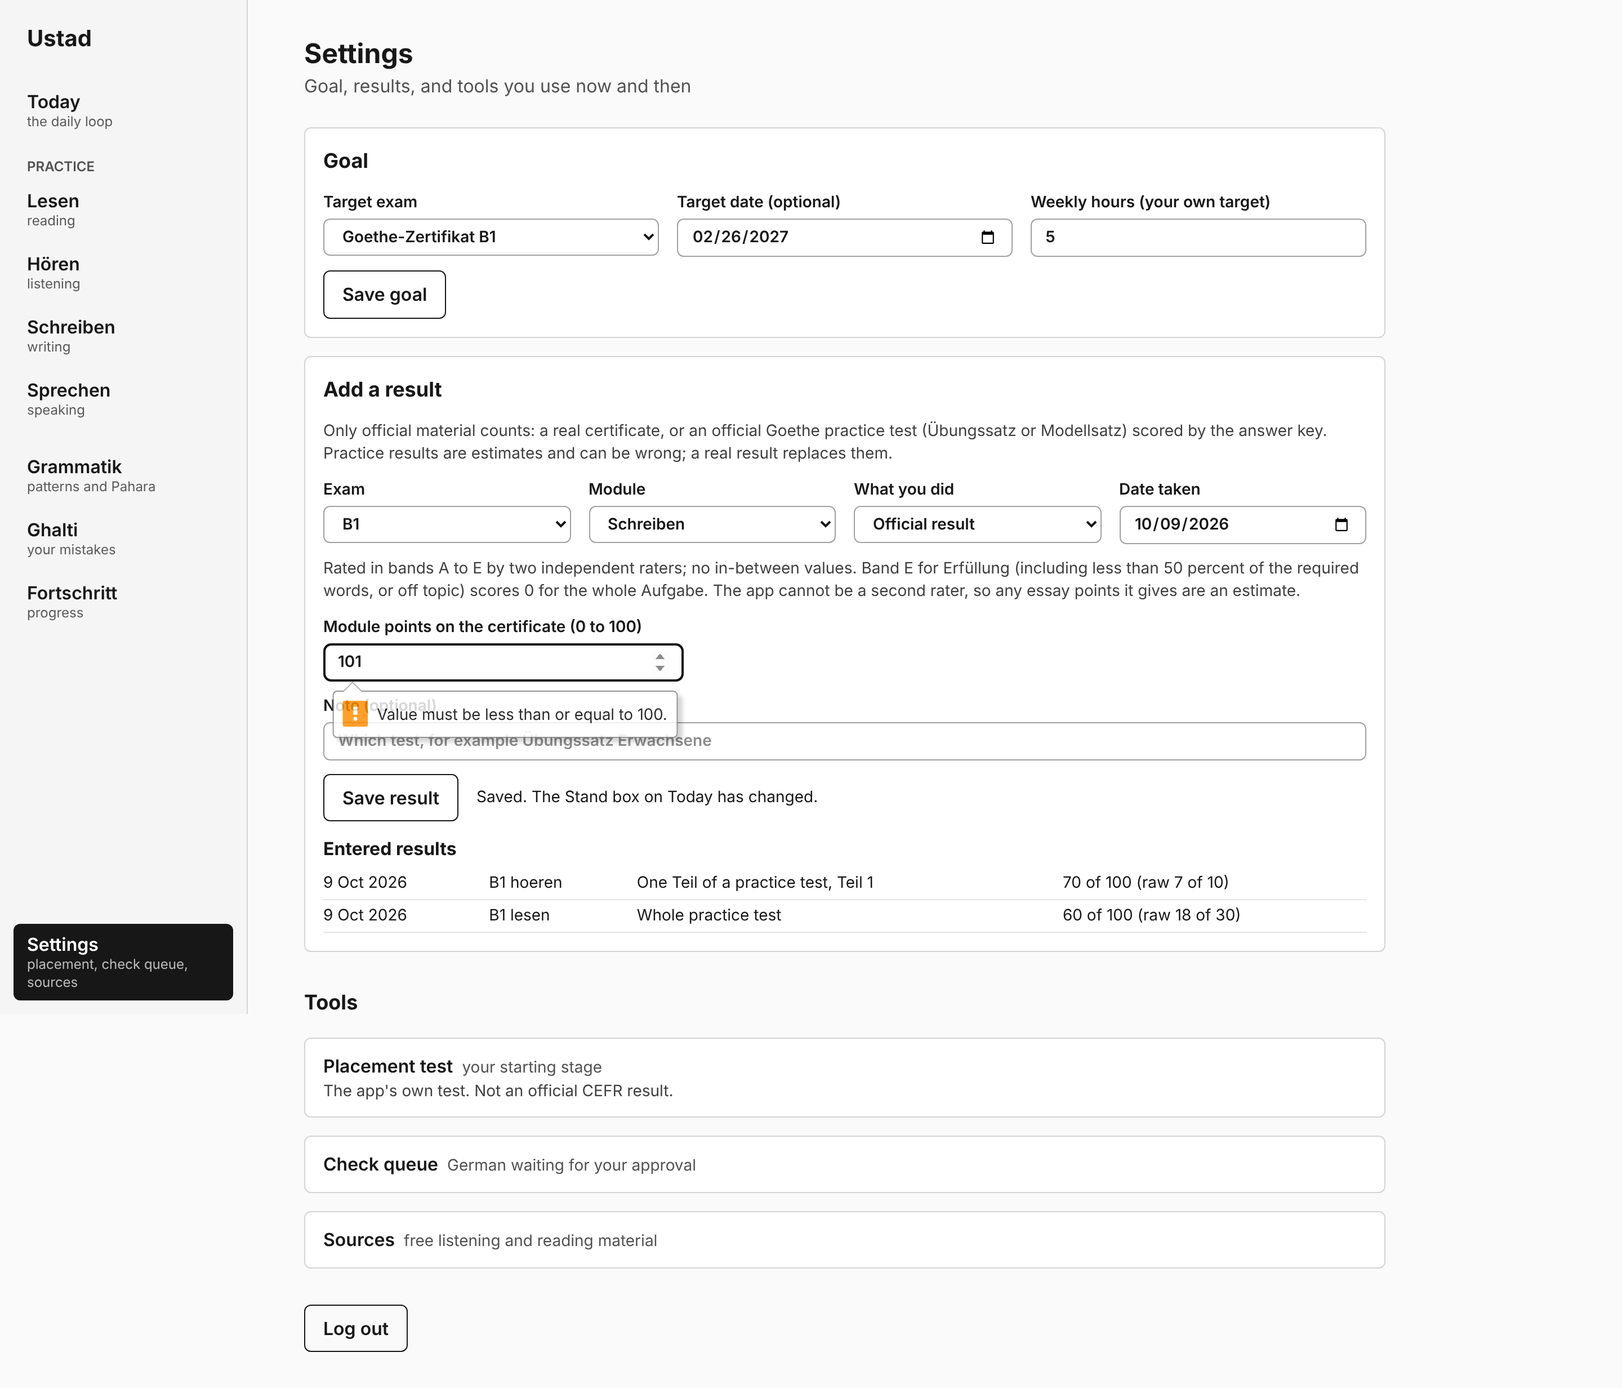
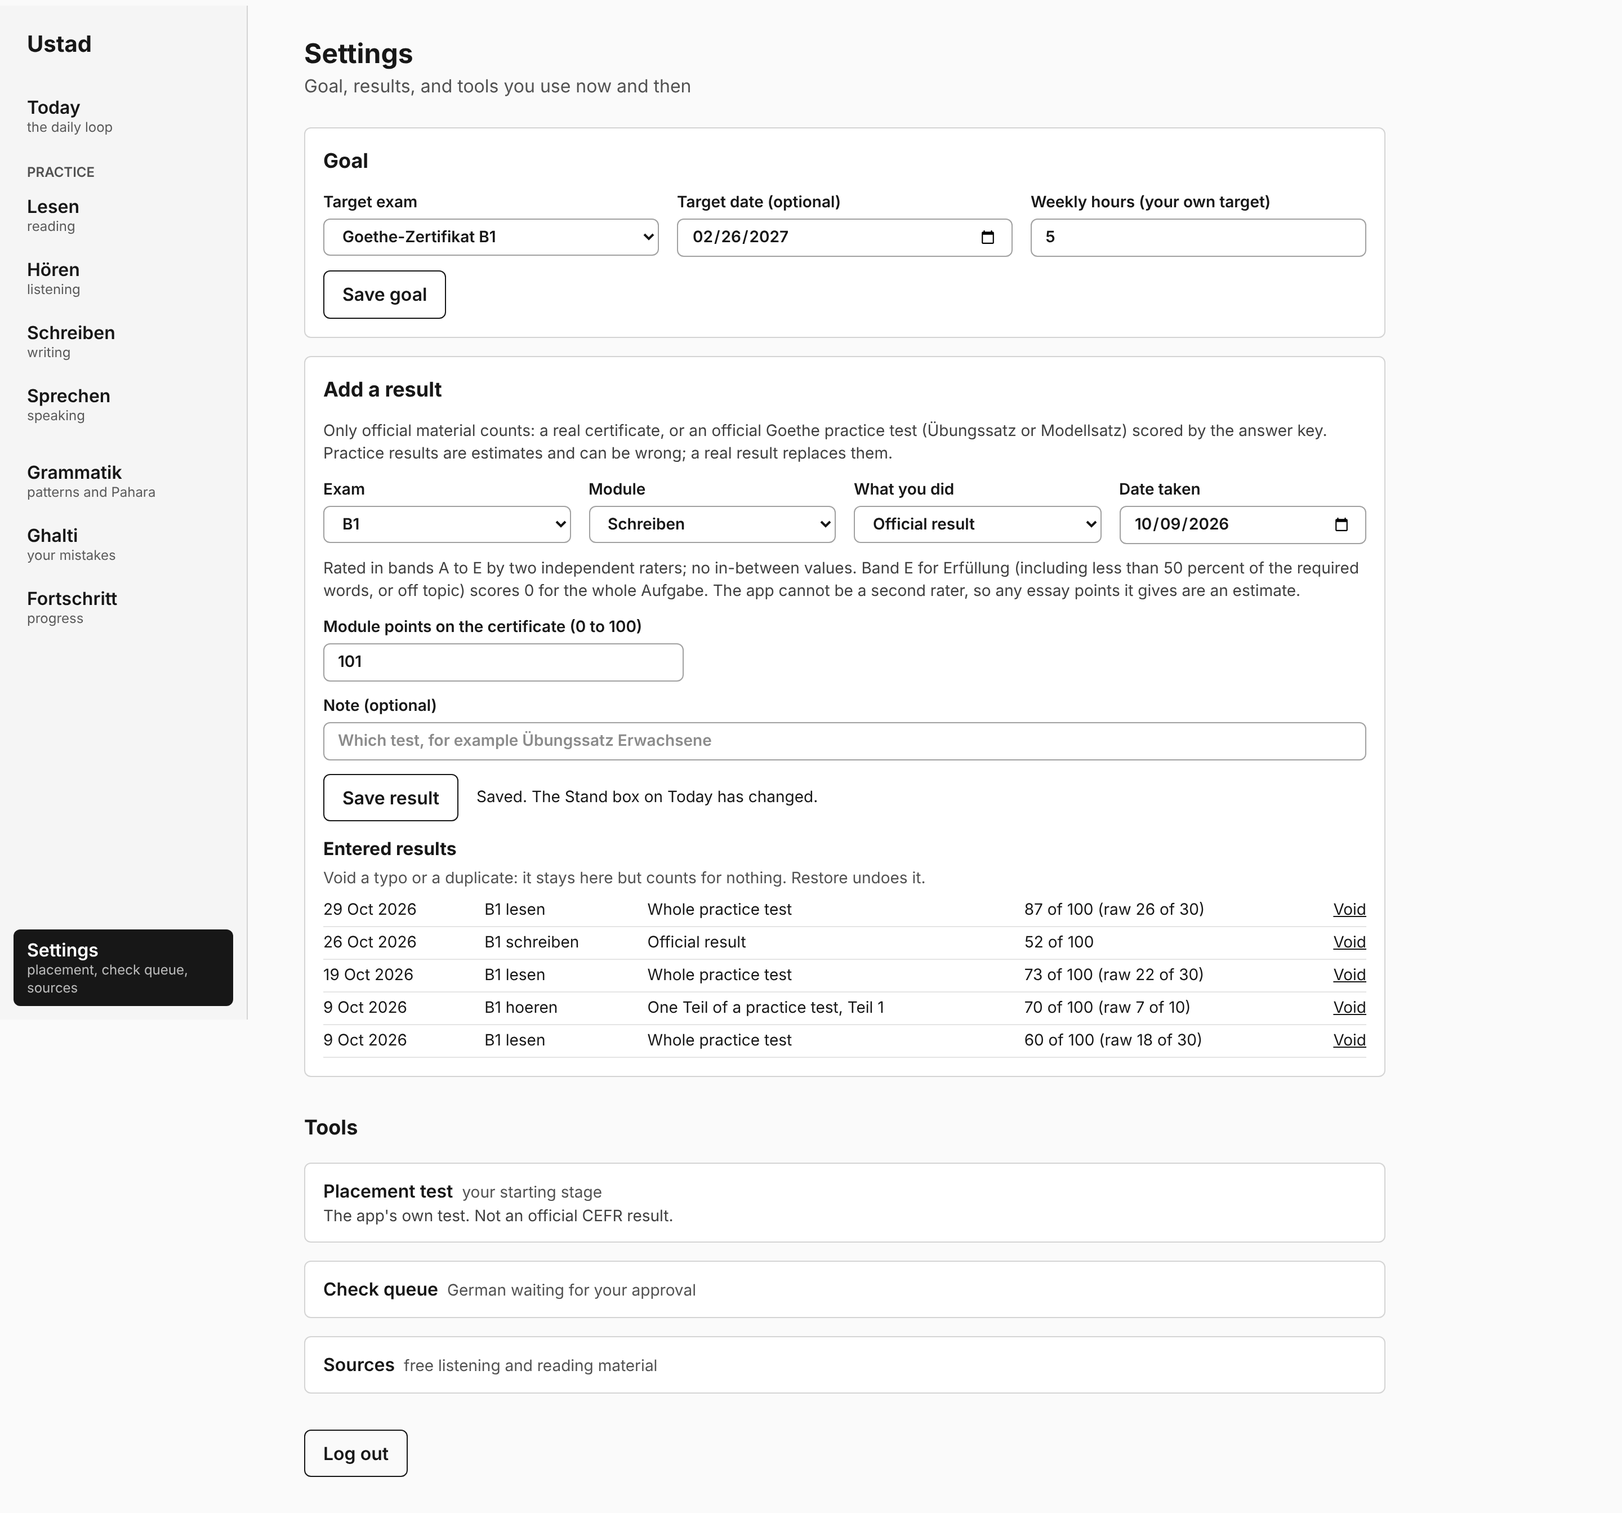
V2 follow-up: soft delete for exam results, word list extractor
Claude-Session: https://claude.ai/code/session_011v4v1GzHf5XmuZF3co3fEE

diff --git a/frontend/src/pages/Settings.tsx b/frontend/src/pages/Settings.tsx
@@ -7,7 +7,7 @@ import { formatDate, KIND_LABEL, type ModuleKey, type Standing } from '../lib/st
 
 interface Teil { n: number; label?: string; items?: number; max: number }
 type Format = Record<'B1' | 'B2', { exam: string; pass_points: number; modules: Record<ModuleKey, { label: string; teile: Teil[]; scoring: string; verified: boolean; verify_note?: string }> }>
-interface ResultRow { id: number; taken: string; level: string; module: string; kind: string; teil: number | null; raw: number | null; raw_max: number | null; points: number; points_max: number }
+interface ResultRow { id: number; taken: string; level: string; module: string; kind: string; teil: number | null; raw: number | null; raw_max: number | null; points: number; points_max: number; voided: boolean }
 
 const field = 'rounded-lg border border-neutral-400 bg-white px-3 py-1.5'
 const label = 'flex flex-col gap-1 text-sm font-semibold'
@@ -94,6 +94,10 @@ function AddResult({ preset }: { preset: ModuleKey | null }) {
     },
     onError: (e: Error) => setMsg(e.message),
   })
+  const toggle = useMutation({
+    mutationFn: (r: ResultRow) => api(`/api/exam-results/${r.id}/void`, { voided: !r.voided }),
+    onSuccess: () => qc.invalidateQueries(),
+  })
   const complete = kind === 'real_exam' ? points !== '' : kind === 'practice_teil' ? raw !== '' : !!mod && mod.teile.every((t) => teile[t.n] !== undefined && teile[t.n] !== '')
   return (
     <form
@@ -167,14 +171,21 @@ function AddResult({ preset }: { preset: ModuleKey | null }) {
       {list.data && list.data.results.length > 0 && (
         <div>
           <h3 className="mb-1 font-bold">Entered results</h3>
+          <p className="mb-1 text-sm text-neutral-600">Void a typo or a duplicate: it stays here but counts for nothing. Restore undoes it.</p>
           <table className="w-full text-left text-sm">
             <tbody>
               {list.data.results.map((r) => (
-                <tr key={r.id} className="border-b border-neutral-200">
+                <tr key={r.id} className={`border-b border-neutral-200 ${r.voided ? 'text-neutral-500 line-through' : ''}`}>
                   <td className="py-1 pr-3">{formatDate(r.taken)}</td>
                   <td className="pr-3">{r.level} {r.module}</td>
                   <td className="pr-3">{KIND_LABEL[r.kind]}{r.teil ? `, Teil ${r.teil}` : ''}</td>
                   <td>{Math.round(r.points)} of {r.points_max}{r.raw !== null ? ` (raw ${r.raw} of ${r.raw_max})` : ''}</td>
+                  <td className="pl-3 text-right no-underline">
+                    {r.voided && <span className="mr-2 font-semibold no-underline">Voided</span>}
+                    <button type="button" className="underline" onClick={() => toggle.mutate(r)}>
+                      {r.voided ? 'Restore' : 'Void'}
+                    </button>
+                  </td>
                 </tr>
               ))}
             </tbody>

diff --git a/frontend/e2e/v2.spec.ts b/frontend/e2e/v2.spec.ts
@@ -39,7 +39,7 @@ test('empty DB: the box says Not measured yet for every module and shows no numb
   await page.screenshot({ path: `${SHOTS}/v2-stand-empty.png` })
   await page.goto('/progress')
   await expect(page.getByRole('heading', { name: 'Fortschritt' })).toBeVisible()
-  await expect(page.getByText('Add the Goethe B1 word list to measure this.').first()).toBeVisible()
+  await expect(page.getByText(/Add the Goethe B1 word list to measure this\.|of \d+ words on the Goethe-Zertifikat B1 Wortliste/).first()).toBeVisible()
   await noSideScroll(page)
   await page.screenshot({ path: `${SHOTS}/v2-progress-empty.png`, fullPage: true })
 })
@@ -87,6 +87,12 @@ test('results entered in Settings change the box and the Progress page', async (
     data: { level: 'B1', module: 'schreiben', kind: 'real_exam', taken: daysAgo(3), points: 52 },
   })
   expect(w.ok()).toBeTruthy()
+  // Void the Hören Teil result (soft delete), see the box change, restore it
+  await page.getByRole('row', { name: /B1 hoeren/ }).getByRole('button', { name: 'Void' }).click()
+  await expect(page.getByRole('row', { name: /B1 hoeren/ }).getByText('Voided')).toBeVisible()
+  await expect.poll(async () => ((await (await page.request.get('/api/standing')).json()).modules as { module: string; status: string }[]).find((m) => m.module === 'hoeren')?.status).toBe('none')
+  await page.getByRole('row', { name: /B1 hoeren/ }).getByRole('button', { name: 'Restore' }).click()
+  await expect.poll(async () => ((await (await page.request.get('/api/standing')).json()).modules as { module: string; status: string }[]).find((m) => m.module === 'hoeren')?.status).not.toBe('none')
   await page.screenshot({ path: `${SHOTS}/v2-settings.png`, fullPage: true })
 
   await page.goto('/')

diff --git a/backend/scripts/build_wortliste.py b/backend/scripts/build_wortliste.py
@@ -1,0 +1,95 @@
+"""Turn the Goethe-Zertifikat B1 Wortliste PDF into data/private/goethe_b1_wortliste.txt (one lemma per line).
+
+Usage: python -m scripts.build_wortliste [pdf] [out]
+Default pdf: data/private/Goethe-Zertifikat_B1_Wortliste.pdf. Needs `pdftohtml` (poppler) on the PATH.
+The PDF restricts storing it in a network (docs/USTAD_V2_CODEX_BRIEF.md 4.4): keep both files in
+data/private/ (gitignored) on your Mac. This PDF has no bold headwords, so entries are found by page
+position: the alphabetical part (from page 16) has two columns, each with a headword cell on the left and
+example sentences on the right. Review the output by eye: continuation lines are skipped by heuristic.
+"""
+
+import re
+import subprocess
+import sys
+from pathlib import Path
+from xml.etree import ElementTree as ET
+
+from app.core.config import REPO_ROOT
+
+FIRST_PAGE = (
+    16  # "2 Alphabetischer Wortschatz" starts here; page 1 to 15 are the intro and the word groups
+)
+ZONES = ((0, 185), (460, 605))  # left edge of the headword cell in the two columns (page width 892)
+LINE_HEIGHT = "11"  # text of the entries; headers, letters and footers use other sizes
+CONTINUED = (",", ":", "/", "-")
+_ARTICLES = re.compile(r"^(?:(?:der|die|das|ein|eine|sich)\b|\([^)]*\)|/)\s*", re.IGNORECASE)
+_PAREN = re.compile(r"\s*\([^)]*\)")
+
+
+_NOTE = re.compile(r"^(?:\(|(?:A|D|CH)\b[,:;/ ]|(?:hat|ist|haben|sind)\s)")
+
+
+def lemmas(cell: str) -> list[str]:
+    """Headword cell text ('die Dame, -n', 'o.k./O.K./okay', 'das Dessert, -s -> D, A:') to lemmas."""
+    if _NOTE.search(cell) or cell.count("(") != cell.count(
+        ")"
+    ):  # regional notes ('A: Marille') and perfect-tense continuations
+        return []
+    head = _PAREN.sub("", cell.split("→")[0]).split(";")[0].split(",")[0].strip()
+    prev = None
+    while prev != head:
+        prev, head = head, _ARTICLES.sub("", head).strip()
+    head = _PAREN.sub("", head).strip()
+    out = []
+    for alt in head.split("/"):
+        alt = alt.strip(" .-")
+        if len(alt) > 1 and not alt.isnumeric() and re.search(r"[A-Za-zÄÖÜäöüß]", alt):
+            out.append(alt)
+    return out
+
+
+def extract(xml: str) -> list[str]:
+    words: set[str] = set()
+    pages = ET.fromstring(xml).findall("page")
+    for pg in pages[FIRST_PAGE - 1 :]:
+        for lo, hi in ZONES:
+            cells = sorted(
+                (int(e.get("top")), "".join(e.itertext()).strip())
+                for e in pg.findall("text")
+                if e.get("height") == LINE_HEIGHT and lo <= int(e.get("left")) < hi
+            )
+            prev_top, prev_text = None, ""
+            for top, text in cells:
+                if not text:
+                    continue
+                continuing = (
+                    prev_top is not None and top - prev_top <= 20 and prev_text.endswith(CONTINUED)
+                )
+                if not continuing:
+                    words.update(lemmas(text))
+                prev_top, prev_text = top, text
+    return sorted(words, key=str.lower)
+
+
+def main() -> None:
+    pdf = (
+        Path(sys.argv[1])
+        if len(sys.argv) > 1
+        else REPO_ROOT / "data/private/Goethe-Zertifikat_B1_Wortliste.pdf"
+    )
+    out = (
+        Path(sys.argv[2])
+        if len(sys.argv) > 2
+        else REPO_ROOT / "data/private/goethe_b1_wortliste.txt"
+    )
+    xml = subprocess.run(
+        ["pdftohtml", "-xml", "-i", "-stdout", str(pdf)], capture_output=True, check=True
+    ).stdout
+    words = extract(xml.decode("utf-8", errors="replace"))
+    out.parent.mkdir(parents=True, exist_ok=True)
+    out.write_text("\n".join(words) + "\n", encoding="utf-8")
+    print(f"{len(words)} lemmas -> {out}")
+
+
+if __name__ == "__main__":
+    main()

diff --git a/backend/tests/test_standing.py b/backend/tests/test_standing.py
@@ -65,7 +65,8 @@ def test_empty_db_every_module_not_measured_and_no_numbers(db):
     assert out["needed_pace"] is None
 
 
-def test_empty_db_api(authed):
+def test_empty_db_api(authed, tmp_path, monkeypatch):
+    monkeypatch.setattr(settings, "private_dir", tmp_path)
     r = authed.get("/api/standing")
     assert r.status_code == 200
     assert all(m["low"] is None for m in r.json()["modules"])
@@ -454,7 +455,42 @@ def test_migration_round_trip(tmp_path, monkeypatch):
     names = lambda: inspect(create_engine(url)).get_table_names()
     command.upgrade(cfg, "head")
     assert "exam_result" in names()
+    cols = lambda: {c["name"] for c in inspect(create_engine(url)).get_columns("exam_result")}
+    assert "voided" in cols()
+    command.downgrade(cfg, "c2v2stand03")
+    assert "exam_result" in names() and "voided" not in cols()
     command.downgrade(cfg, "b1e7v1evid02")
     assert "exam_result" not in names()
     command.upgrade(cfg, "head")
-    assert "exam_result" in names()
+    assert "exam_result" in names() and "voided" in cols()
+
+
+def test_voided_result_counts_for_nothing_and_can_be_restored(authed):
+    post(authed, module="lesen", kind="real_exam", points=85)  # typo for 58
+    first = authed.get("/api/exam-results").json()["results"][0]["id"]
+    m = {x["module"]: x for x in authed.get("/api/standing").json()["modules"]}["lesen"]
+    assert m["official"] and m["low"] == 85
+    out = authed.post(f"/api/exam-results/{first}/void", json={}).json()
+    m = {x["module"]: x for x in out["modules"]}["lesen"]
+    assert m["status"] == "none" and m["low"] is None and m["evidence"] == []
+    rows = authed.get("/api/exam-results").json()["results"]  # the row is kept, flagged
+    assert len(rows) == 1 and rows[0]["voided"] is True
+    post(authed, module="lesen", kind="real_exam", points=58)
+    m = {x["module"]: x for x in authed.get("/api/standing").json()["modules"]}["lesen"]
+    assert m["low"] == 58 and m["status"] == "below"
+    out = authed.post(f"/api/exam-results/{first}/void", json={"voided": False}).json()
+    assert {x["module"]: x for x in out["modules"]}["lesen"]["n"] == 2
+    assert authed.post("/api/exam-results/999/void", json={}).status_code == 404
+
+
+def test_voided_results_do_not_feed_the_forecast(db):
+    for d, p in ((20, 30), (10, 40), (0, 50)):
+        add_hours(db, "reading", d + 1, 4)
+        add_result(db, "lesen", p, d)
+    for d in range(28):
+        add_hours(db, "reading", d, 0.5)
+    assert module(db, "lesen")["forecast"]["state"] == "date"
+    row = db.query(ExamResult).filter_by(points=50).one()
+    row.voided = True
+    db.commit()
+    assert module(db, "lesen")["forecast"]["state"] == "need_more"

diff --git a/backend/tests/test_wortliste.py b/backend/tests/test_wortliste.py
@@ -1,0 +1,33 @@
+from scripts.build_wortliste import extract, lemmas
+
+
+def test_lemmas_strip_articles_inflections_and_notes():
+    assert lemmas("die Dame, -n") == ["Dame"]
+    assert lemmas("dauern, dauert, dauerte,") == ["dauern"]
+    assert lemmas("der Azubi, -s (D)") == ["Azubi"]
+    assert lemmas("der/das Ketchup/Ketschup, -s") == ["Ketchup", "Ketschup"]
+    assert lemmas("das Dessert, -s → D, A:") == ["Dessert"]
+    assert lemmas("Familienstand (D, A)") == ["Familienstand"]
+    assert lemmas("sich beeilen") == ["beeilen"]
+    assert lemmas("A: Marille") == []
+    assert lemmas("hat gedauert") == []
+    assert lemmas("12") == []
+
+
+def _xml(cells):
+    body = "".join(f'<text top="{t}" left="{x}" height="11">{s}</text>' for t, x, s in cells)
+    return f"<pdf2xml>{'<page/>' * 15}<page>{body}</page></pdf2xml>"
+
+
+def test_extract_uses_headword_zones_and_skips_continuations():
+    xml = _xml([
+        (100, 53, "dauern, dauert, dauerte,"), (113, 53, "hat gedauert"),
+        (100, 212, "Wie lange dauert die Pause?"),  # example column
+        (150, 561, "die Dauer"), (150, 617, "1. Sie können das Buch"),
+        (200, 472, "damit"),
+    ])  # fmt: skip
+    assert extract(xml) == ["damit", "dauern", "Dauer"] or sorted(extract(xml)) == [
+        "Dauer",
+        "damit",
+        "dauern",
+    ]

diff --git a/backend/app/api/standing.py b/backend/app/api/standing.py
@@ -64,7 +64,7 @@ def list_results(db: DB):
     return {"results": [
         {"id": r.id, "taken": r.taken.isoformat(), "level": r.level, "module": r.module, "kind": r.kind,
          "teil": r.teil, "raw": r.raw, "raw_max": r.raw_max, "points": r.points,
-         "points_max": r.points_max, "note": r.note}
+         "points_max": r.points_max, "note": r.note, "voided": r.voided}
         for r in rows
     ]}  # fmt: skip
 
@@ -91,5 +91,20 @@ def add_result(body: ResultIn, db: DB):
                      raw_max=e["raw_max"], points=e["points"], points_max=e["points_max"],
                      note=body.note, meta_json=e["meta"])  # fmt: skip
     db.add(row)
+    db.commit()
+    return st.standing(db, utcnow())
+
+
+class VoidIn(BaseModel):
+    voided: bool = True
+
+
+@router.post("/exam-results/{result_id}/void")
+def void_result(result_id: int, body: VoidIn, db: DB):
+    """Soft delete: the row stays, but estimates, forecasts and pace ignore it. Undo with voided=false."""
+    row = db.get(ExamResult, result_id)
+    if row is None:
+        raise HTTPException(404, "No such result")
+    row.voided = body.voided
     db.commit()
     return st.standing(db, utcnow())

diff --git a/backend/migrations/versions/d3v2void04_exam_result_voided.py b/backend/migrations/versions/d3v2void04_exam_result_voided.py
@@ -1,0 +1,26 @@
+"""V2: exam_result.voided (soft delete for typos and duplicates)
+
+Revision ID: d3v2void04
+Revises: c2v2stand03
+Create Date: 2026-10-29
+
+"""
+from typing import Sequence, Union
+
+from alembic import op
+import sqlalchemy as sa
+
+revision: str = 'd3v2void04'
+down_revision: Union[str, Sequence[str], None] = 'c2v2stand03'
+branch_labels: Union[str, Sequence[str], None] = None
+depends_on: Union[str, Sequence[str], None] = None
+
+
+def upgrade() -> None:
+    with op.batch_alter_table('exam_result') as batch:
+        batch.add_column(sa.Column('voided', sa.Boolean(), nullable=False, server_default=sa.false()))
+
+
+def downgrade() -> None:
+    with op.batch_alter_table('exam_result') as batch:
+        batch.drop_column('voided')

diff --git a/backend/app/services/standing.py b/backend/app/services/standing.py
@@ -503,7 +503,7 @@ def wordlist_coverage(db: Session) -> dict:
 
 
 def results_for(db: Session, level: str, module: str | None = None) -> list[ExamResult]:
-    q = select(ExamResult).where(ExamResult.level == level)
+    q = select(ExamResult).where(ExamResult.level == level, ExamResult.voided.is_(False))
     if module:
         q = q.where(ExamResult.module == module)
     return list(db.scalars(q.order_by(ExamResult.taken, ExamResult.id)))

diff --git a/backend/app/models/__init__.py b/backend/app/models/__init__.py
@@ -195,6 +195,8 @@ class ExamResult(Base):
     points_max: Mapped[float] = mapped_column(Float)
     note: Mapped[str] = mapped_column(Text, default="")
     meta_json: Mapped[dict] = mapped_column(JSON, default=dict)
+    # soft delete: a voided result stays in the table but counts for nothing (typo, duplicate)
+    voided: Mapped[bool] = mapped_column(Boolean, default=False, server_default="0")
 
 
 class CostLedger(Base):

diff --git a/docs/PROGRESS.md b/docs/PROGRESS.md
@@ -655,7 +655,7 @@ Settings form kept a stale Teil or scores after switching module; fractional Les
 points accepted; forecast wording did not match the 3-checks-over-14-days gate; needed pace showed a partial number
 when modules had no trend (now "Not measured yet" naming them); pace counted all-time activity days instead of the
 28-day window.
-Not fixed, for Zee to decide: **an entered result cannot be corrected or removed** (a mistyped real exam of 85 instead
+Decided afterwards (see V2 follow-up): **an entered result cannot be corrected or removed** (a mistyped real exam of 85 instead
 of 58 would override everything). Rules say never delete user data, so no DELETE was added; options: a `voided`
 flag with a Remove button, or enter a newer real result.
 
@@ -665,4 +665,25 @@ Known limits:
 - B2 Sprechen is entered as one total out of 84 (per-Teil split not confirmed).
 - Word list coverage needs `data/private/goethe_b1_wortliste.txt` (one entry per line) on the Mac.
 - Forecasts need activity hours (V1 onward); a module with results but no recorded practice shows "No reliable trend yet".
+
+#### V2 follow-up: soft delete and the word list (2026-10-29)
+
+- `exam_result.voided` (migration `d3v2void04`, downgrade tested). `POST /api/exam-results/{id}/void` with
+  `{"voided": true|false}`; voided rows stay in the table and the list (struck through, "Void" / "Restore" in Settings) but
+  estimates, forecasts and evidence ignore them. Nothing is deleted.
+- Word list: `python -m scripts.build_wortliste` (run in `backend/`; reads `data/private/Goethe-Zertifikat_B1_Wortliste.pdf`
+  with poppler's `pdftohtml`, no new Python dependency) writes `data/private/goethe_b1_wortliste.txt`. This PDF has no bold
+  headwords, so entries are found by page position (alphabetical part from page 16, two columns, headword cell left of the
+  examples); regional notes (`A:`, `CH:`), tense continuations and inflection lines are skipped. Result on the real PDF: 2,901
+  lemmas (the official count is "circa 2400 lexikalische Einheiten"; the list also holds derived words and variants, so the
+  Progress line shows both numbers). Skim the file: a few wrap artefacts remain (for example a split word like "biss").
+- The upload committed the PDF to the repo, so it is in git history on `main`. It is now in `data/private/` (gitignored)
+  and no longer tracked. Its licence restricts storing it in a network; consider purging it from history.
+- B2 Sprechen stays one total out of 84 (no per-Teil split).
+
+| Check | Result |
+|---|---|
+| pytest | 348 passed, 15 skipped, 1 failed: `test_daily_loop` (sibling-card "due more than 1 h later" assertion). It fails on the previous commit too and depends on the time of day (run at 23:02 Berlin): the open item from V0 and V1. New tests: voided result excluded and restorable, voided rows do not feed the forecast, migration round trip with `voided`, word list extraction |
+| vitest, lint | 48 passed; ruff clean; oxlint 0 errors, 1 old warning; tsc clean |
+| Playwright 1440x900 | `e2e/v2.spec.ts` 2 passed on a fresh DB, now including Void and Restore in Settings |
 

diff --git a/docs/v2/metrics.md b/docs/v2/metrics.md
@@ -100,3 +100,9 @@ listed as missing.
   Mature = known from placement or a card with stability of at least 21 days. Matching by lemma or de without
   article. Without the file: "Add the Goethe B1 word list to measure this."
 - Hours per skill: last 7 and 28 days, and weekly for 12 weeks (Monday start).
+
+**Voided results.** `exam_result.voided = true` removes a row from every calculation above (estimate, weights,
+forecast, evidence list). The row is kept and can be restored.
+
+**Word list file.** Built by `python -m scripts.build_wortliste` from the official PDF; see docs/PROGRESS.md.
+
